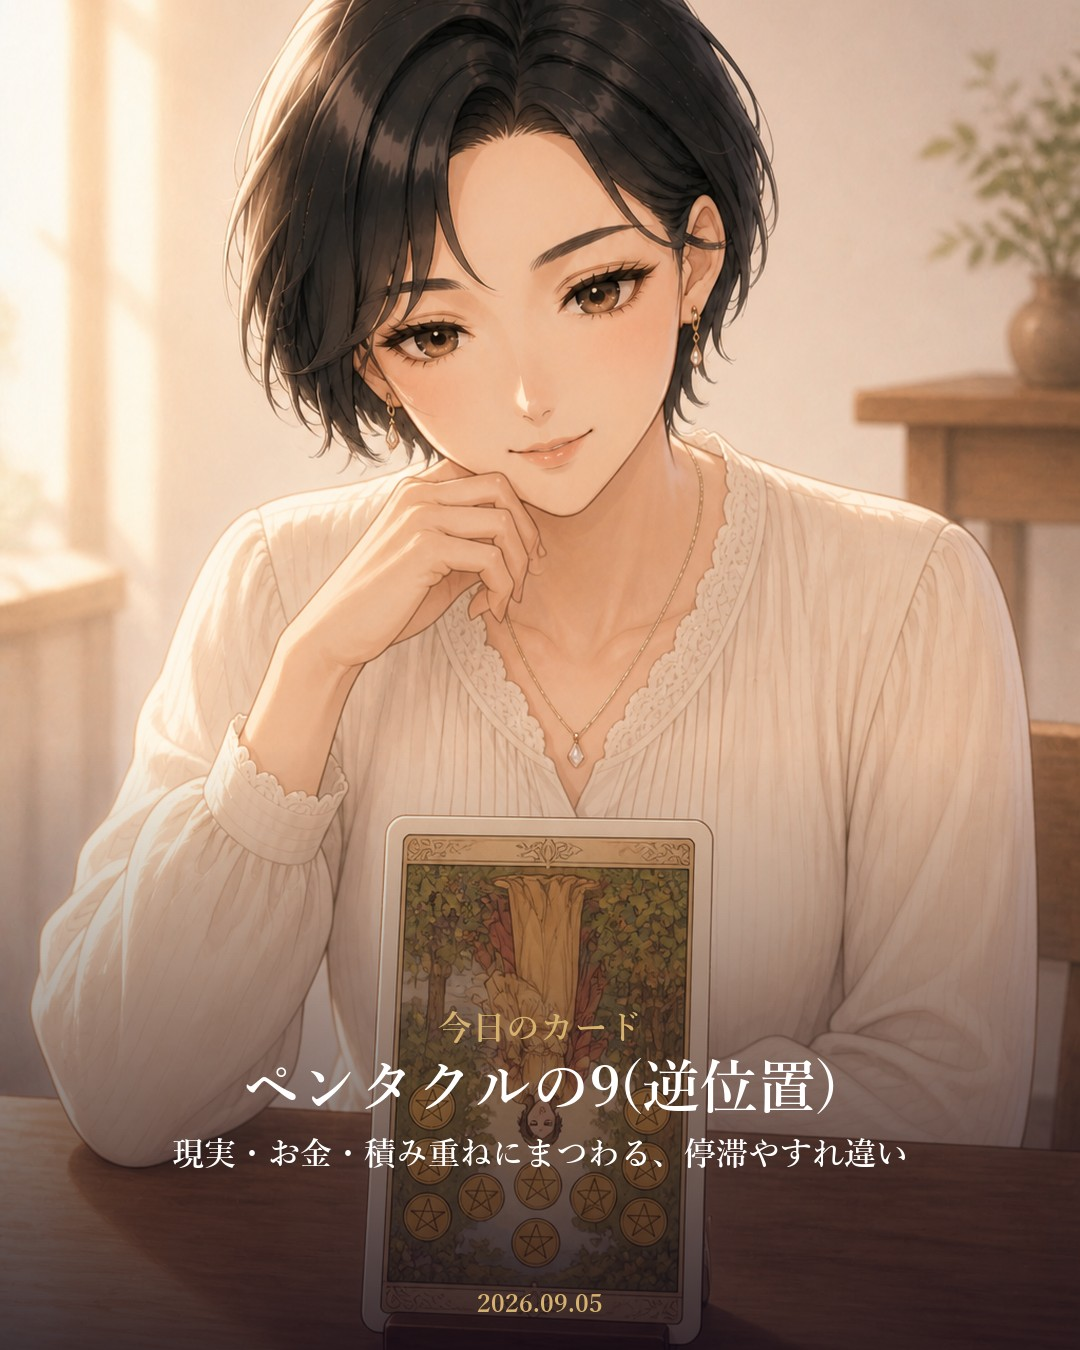
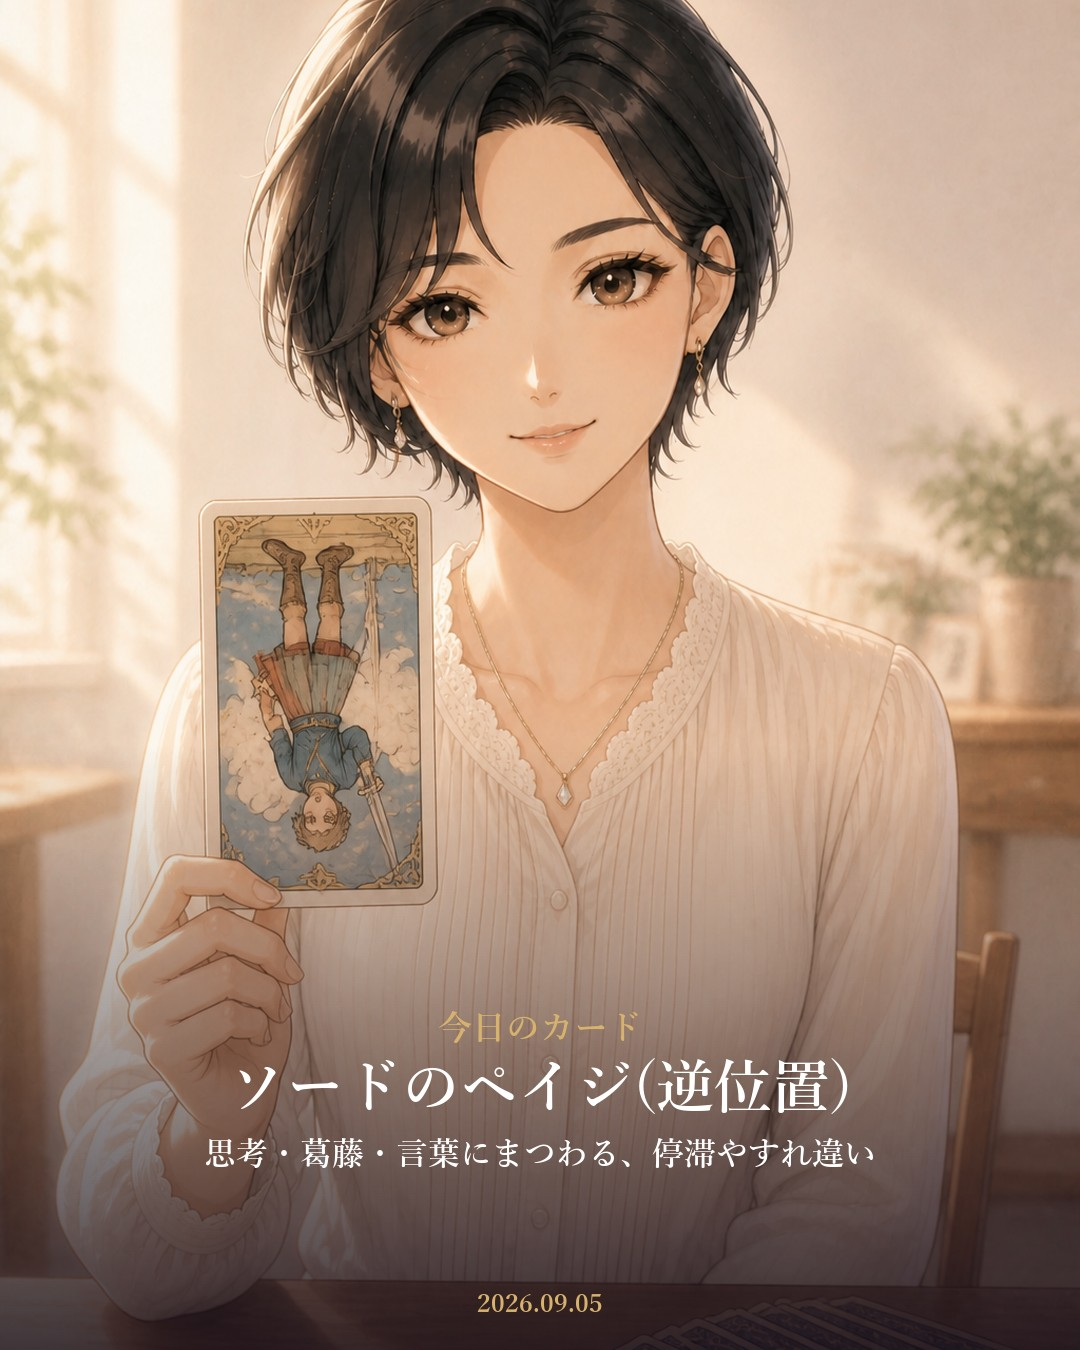
Regenerate 2026-09-05 card: card was standing on desk, now held in hand

diff --git a/threads_posts/2026-09-05.md b/threads_posts/2026-09-05.md
@@ -67,17 +67,17 @@
 ---
 
 ## 今日のカード画像
-- 生成: `python generate_today_card.py --date 2026-09-05`
+- 生成: `python generate_today_card.py --date 2026-09-05 --character`(2026-09-04にカードをデスクに立てて置く構図が出たため、`generate_today_card.py`のSCENE_TEMPLATES #7・#10を「手に持つ」構図に修正して再生成。旧画像は`today_card/_backup/2026-09-05_card-standing-v1.jpg`に保管)
 - 構図: すい子あり(no_character=False、自動ランダム選択)
-- 引いたカード: ペンタクルの9(逆位置) —「自立・豊かさを楽しみたいのに、金銭的な不安や、成果を実感しきれない状態」
-- 保存先: `today_card/2026-09-05.jpg`(既存ファイルなし、バックアップ不要)
+- 引いたカード: ソードのペイジ(逆位置) —「思考・葛藤・言葉にまつわる、停滞やすれ違い」
+- 保存先: `today_card/2026-09-05.jpg`
 
-## Instagram用キャプション(ペンタクルの9・逆位置)
+## Instagram用キャプション(ソードのペイジ・逆位置)
 
 ```
-自分へのご褒美を選ぶ手が、なぜか止まってしまう。がんばってきたはずなのに、豊かさをうまく味わえていない。そんなふうに感じていませんか🍃
-ペンタクルの9の逆位置は、あなたの努力が足りないのではなく、その成果をゆっくり受け取る時間がまだ取れていないサインです。今日はひとつだけ、小さくても「自分のため」の選択をしてみてください。丁寧に受け取るほど、実りは静かに根づいていきます🌙
-最近、自分にご褒美をあげられていますか?よかったらコメントで聞かせてくださいね。
+言いたいことがあるのに、うまく言葉にならない。伝えたつもりなのに、思ったように届いていない気がする。そんなすれ違い、感じていませんか🍃
+ソードのペイジの逆位置は、考えがまだ整理の途中で、言葉が先走ってしまうサインです。今は無理に伝えきろうとせず、一度書き出して整理する時間を持ってみてください。落ち着いて言葉を選べたとき、ちゃんと伝わります🌙
+最近、言いたいことがうまく伝わらなかったと感じたことはありますか?よかったらコメントで聞かせてくださいね。
 
-#タロット #タロット占い #今日のカード #ペンタクルの9 #占い好きな人と繋がりたい #スピリチュアル #9月の運勢 #自分を大切に
+#タロット #タロット占い #今日のカード #ソードのペイジ #占い好きな人と繋がりたい #スピリチュアル #9月の運勢 #言葉を整理する
 ```
